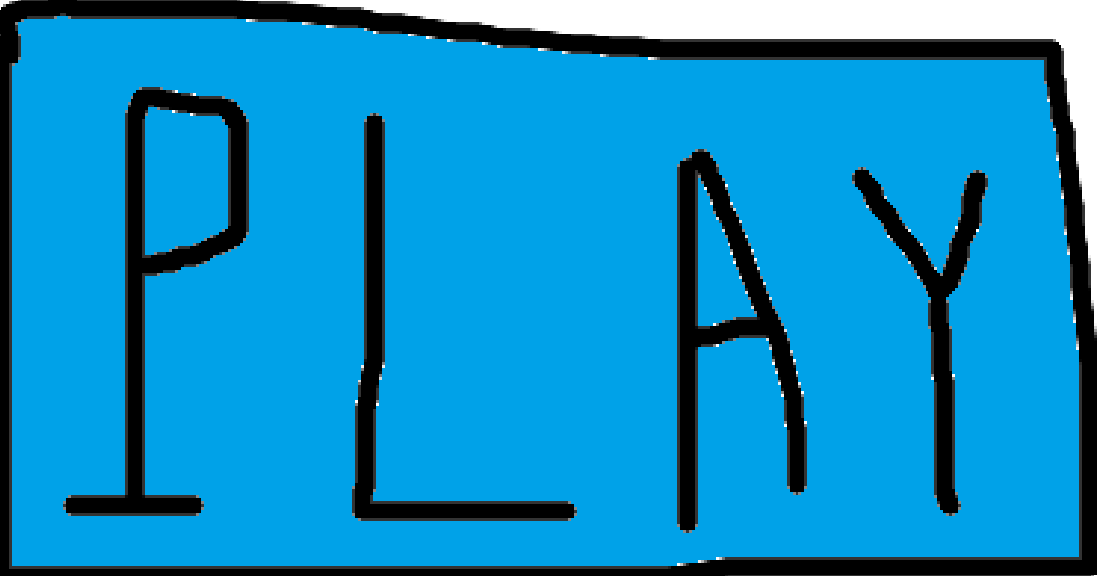
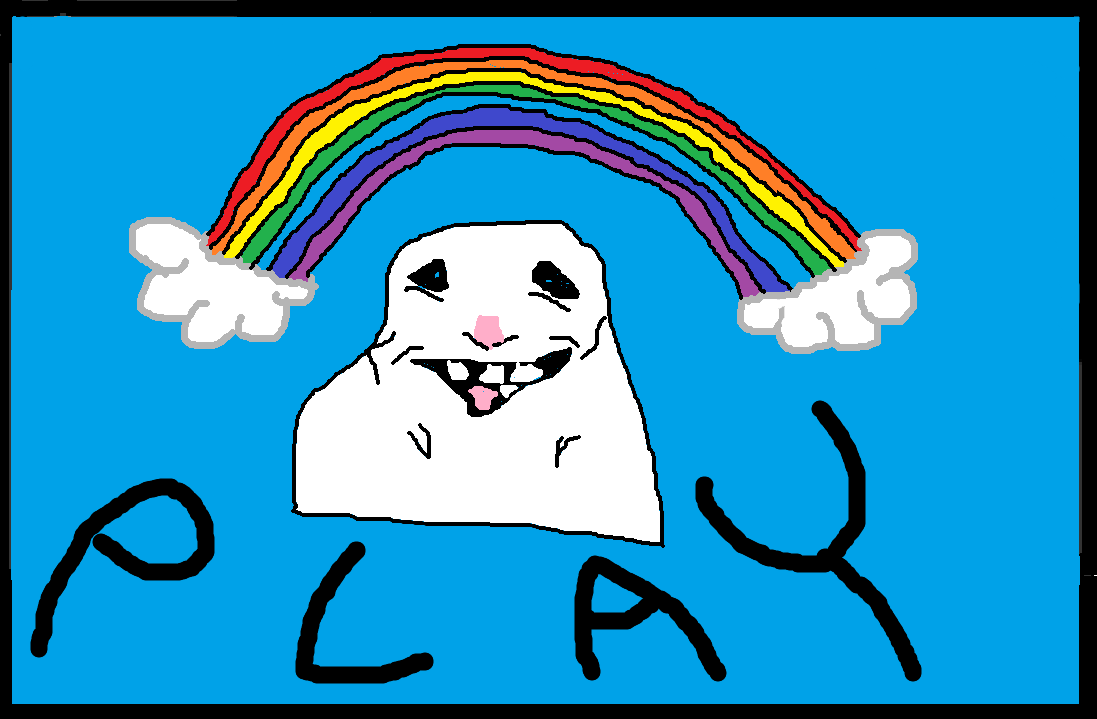
Redrawing of the images and refacto + HBox creation of mainMenu and a new method in setImageVew

diff --git a/src/main/java/latice/gui/view/MainMenu.java b/src/main/java/latice/gui/view/MainMenu.java
@@ -12,6 +12,7 @@ import javafx.scene.layout.BackgroundPosition;
 import javafx.scene.layout.BackgroundRepeat;
 import javafx.scene.layout.BackgroundSize;
 import javafx.scene.layout.BorderPane;
+import javafx.scene.layout.HBox;
 import javafx.scene.layout.VBox;
 import javafx.scene.paint.Color;
 import javafx.scene.shape.Rectangle;
@@ -34,22 +35,22 @@ public class MainMenu {
 		
 		//Buttons creation and image attribution + size min and max
 		Button btnPlay = new Button("PLAY");
-		btnPlay.setPrefSize(150, 100);
-		btnPlay.setMinSize(150, 100);
-		btnPlay.setMaxSize(150, 100);
-		btnPlay = SetImageView.getImageInButton(btnPlay, imagePlay);
+		btnPlay.setPrefSize(300, 200);
+		btnPlay.setMinSize(300, 200);
+		btnPlay.setMaxSize(300, 200);
+		btnPlay = SetImageView.getImageInButtonPlay(btnPlay, imagePlay);
 		
 		Button btnQuit = new Button("QUIT");
 		btnQuit.setPrefSize(150, 100);
 		btnQuit.setMinSize(150, 100);
 		btnQuit.setMaxSize(150, 100);
-		btnQuit = SetImageView.getImageInButton(btnQuit, imageQuit);
+		btnQuit = SetImageView.getImageInButtonQuitAndRules(btnQuit, imageQuit);
 		
 		Button btnRules = new Button("RULES");
 		btnRules.setPrefSize(150, 100);
 		btnRules.setMinSize(150, 100);
 		btnRules.setMaxSize(150, 100);
-		btnRules = SetImageView.getImageInButton(btnRules, imageRules);
+		btnRules = SetImageView.getImageInButtonQuitAndRules(btnRules, imageRules);
 		
 		// Buttons listeners    we make a new primaryStage to bypass the static restrictions
 		BtnController controller = new BtnController(primaryStage);
@@ -65,25 +66,22 @@ public class MainMenu {
 		// VBox creation
 		VBox caseTop = new VBox();
 		VBox caseBottom = new VBox();
-		VBox caseRight = new VBox();
-
-		//  adding the buttons to the VBOXs
-		caseRight.getChildren().addAll(btnRules);
-		caseRight.setAlignment(Pos.TOP_RIGHT);
-		caseRight.setSpacing(10);
+		VBox caseBottom2 = new VBox();
 		
+		// HBox creation
+		HBox hboxBottom = new HBox();
+		//  adding the buttons to the VBOXs	
 		caseTop.getChildren().addAll(btnPlay);
 		caseTop.setAlignment(Pos.TOP_CENTER);
 		caseTop.setSpacing(10);
 
-		caseBottom.getChildren().addAll(btnQuit);
-		caseBottom.setAlignment(Pos.BOTTOM_CENTER);
-		caseBottom.setSpacing(10);
+		hboxBottom.getChildren().addAll(btnQuit, btnRules);
+		hboxBottom.setAlignment(Pos.BOTTOM_CENTER);
+		hboxBottom.setSpacing(50);
 
 		// add the VBoxs to the StackPane
 		root.setTop(caseTop);
-		root.setBottom(caseBottom);
-		root.setRight(caseRight);
+		root.setBottom(hboxBottom);
 		
 		// Attribution of the background and the root to the scene
 		Scene scene = new Scene(root,900,600);
@@ -91,8 +89,7 @@ public class MainMenu {
 
 		// Position attribution of the VBoxs in the BorderPane
 		BorderPane.setMargin(caseTop, new Insets(100, 0, 150, 0));
-		BorderPane.setMargin(caseBottom, new Insets(0, 0, 200, 0));
-		BorderPane.setMargin(caseRight, new Insets(0,100,0,0));
+		BorderPane.setMargin(hboxBottom, new Insets(0, 0, 200, 0));
 
 		return scene;
 

diff --git a/src/main/java/latice/util/SetImageView.java b/src/main/java/latice/util/SetImageView.java
@@ -7,7 +7,7 @@ import javafx.scene.image.Image;
 import javafx.scene.image.ImageView;
 
 public class SetImageView{
-	public static Button getImageInButton(Button btn, Image image) {
+	public static Button getImageInButtonQuitAndRules(Button btn, Image image) {
 		ImageView iv = new ImageView();
 		
 		// parameters to select size, use a better quality and use a cache to improve storage
@@ -19,7 +19,25 @@ public class SetImageView{
         iv.setSmooth(true);
         iv.setCache(true);
         
-        // On fait en sorte que il n'y ait pas de petite marge dans le bouton
+        // To not have a small space preventing the image to cover the button
+        btn.setGraphic(iv);
+        btn.setPadding(new Insets(0, 0, 0, 0));     
+        return btn;
+	}
+	
+	public static Button getImageInButtonPlay(Button btn, Image image) {
+		ImageView iv = new ImageView();
+		
+		// parameters to select size, use a better quality and use a cache to improve storage
+		iv.setImage(image);
+		// adding 5 for cleaner effect
+		iv.setFitWidth(305);
+		iv.setFitHeight(205);
+		iv.setPreserveRatio(false);
+        iv.setSmooth(true);
+        iv.setCache(true);
+        
+        // To not have a small space preventing the image to cover the button
         btn.setGraphic(iv);
         btn.setPadding(new Insets(0, 0, 0, 0));     
         return btn;

diff --git a/src/main/java/latice/gui/controller/BtnController.java b/src/main/java/latice/gui/controller/BtnController.java
@@ -18,7 +18,7 @@ public class BtnController {
 		public BtnController(Stage primaryStage) {
 	        this.primaryStage = primaryStage;
 	    }
-		
+	
 		public void launchBtnHandler() {
 			ArrayList<String> usernames = settingScene.getUsernames();
 			if (!usernames.isEmpty()) {
@@ -30,7 +30,7 @@ public class BtnController {
 			}
 			
 		}
-		
+
 		// handler of play button is starting a was scene with gameScene
 		public void playBtnHandler() {
         	settingScene = new SettingGameScene();
@@ -49,7 +49,7 @@ public class BtnController {
 	            }
 	        };
 	    }
-	    
+
 	    public EventHandler<MouseEvent> rulesBtnHandler() {
 	        return new EventHandler<MouseEvent>() {
 	            @Override

diff --git a/src/main/java/latice/gui/view/RulesScene.java b/src/main/java/latice/gui/view/RulesScene.java
@@ -30,7 +30,7 @@ public class RulesScene {
 		btnQuitRules.setPrefSize(150, 100);
 		btnQuitRules.setMinSize(150, 100);
 		btnQuitRules.setMaxSize(150, 100);
-		btnQuitRules = SetImageView.getImageInButton(btnQuitRules, imageQuit);
+		btnQuitRules = SetImageView.getImageInButtonQuitAndRules(btnQuitRules, imageQuit);
 		
 		BtnController controller = new BtnController(primaryStage);
 	    btnQuitRules.setOnMouseClicked(controller.quitBtnHandler());
